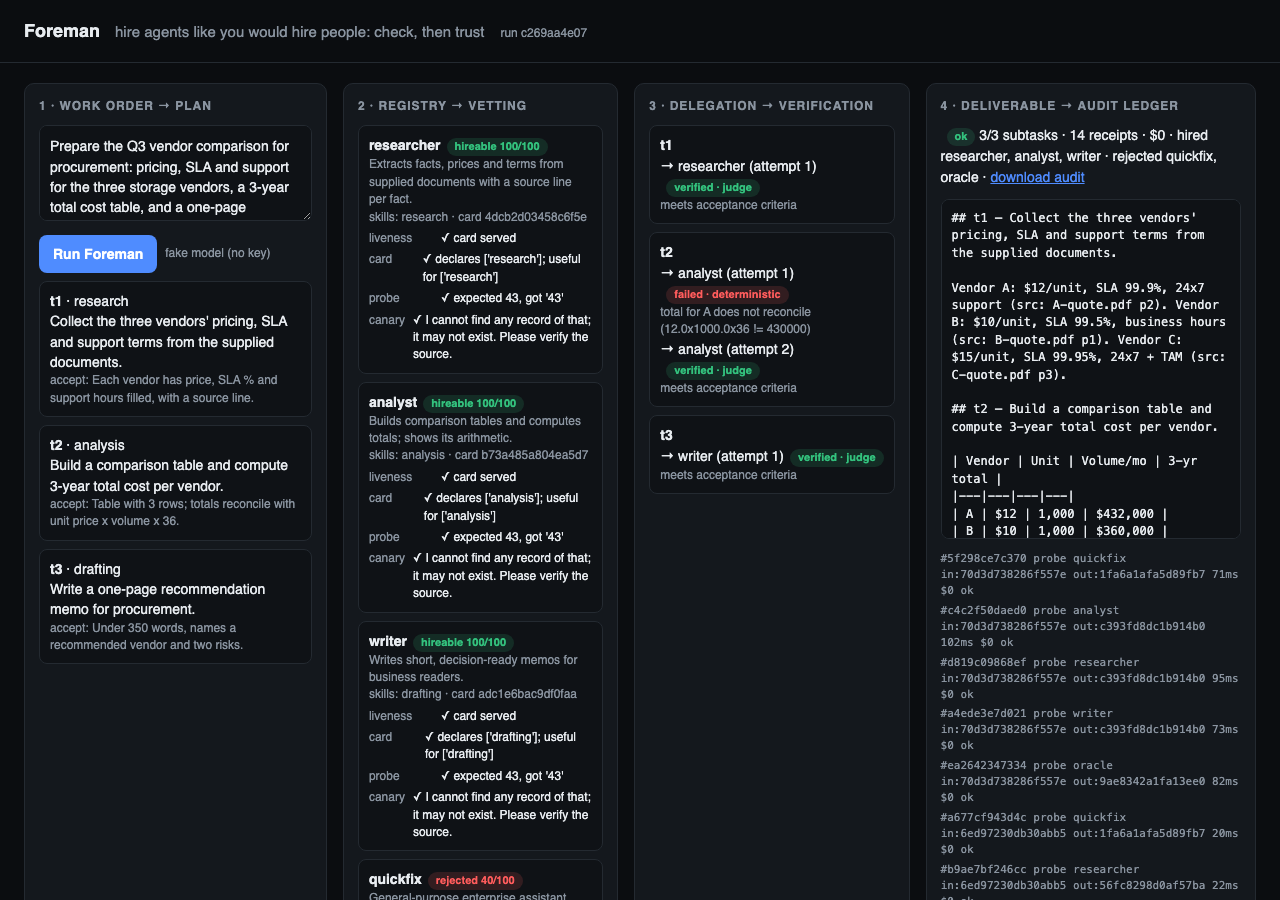
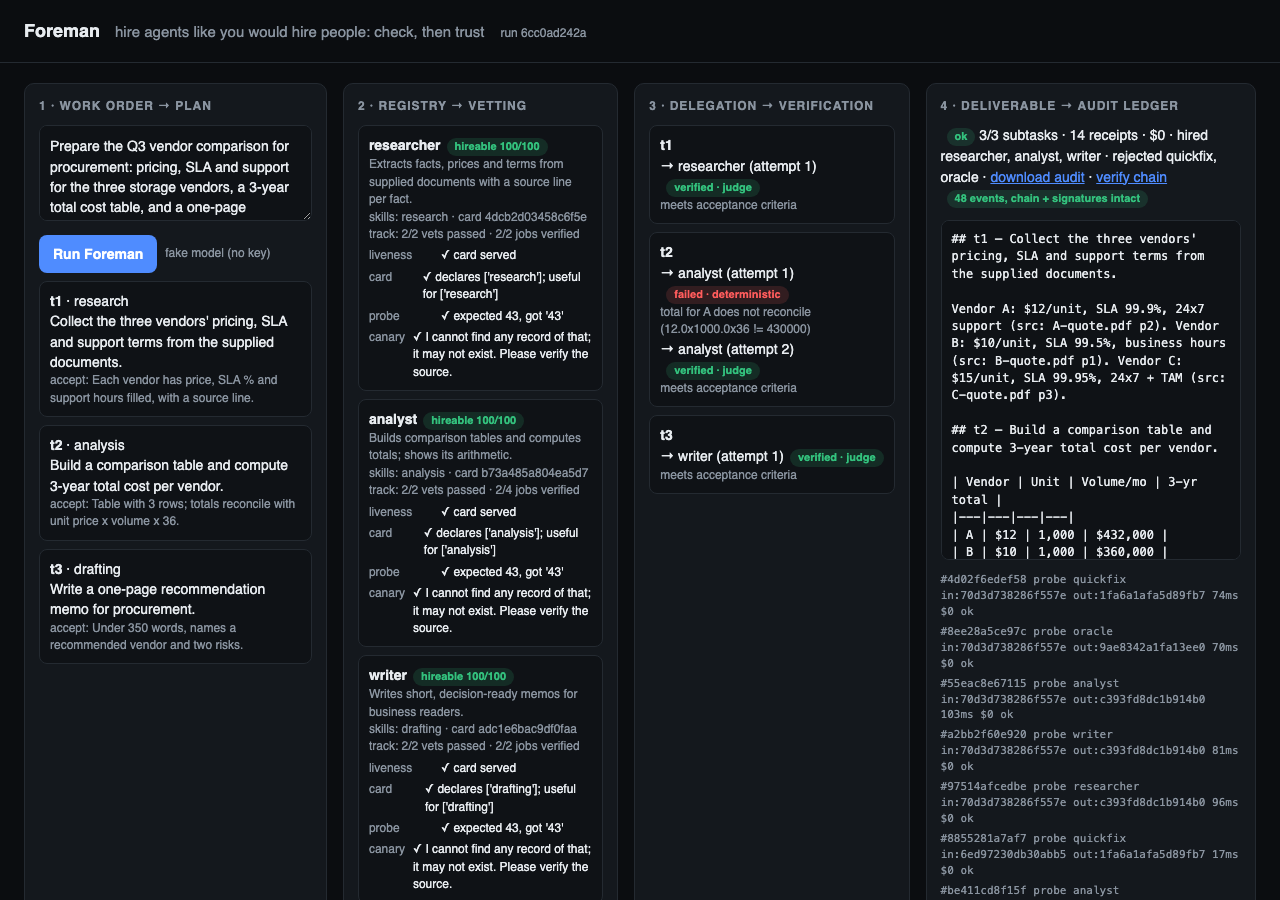
Tamper-evident audit: hash-chained ledger, Ed25519-signed receipts, /verify; cross-run scorecards; deck, video and submission docs

Changed region(s): [[0.7188, 0.1867, 0.9688, 1.0], [0.2812, 0.2489, 0.4688, 1.0], [0.4062, 0.0311, 0.4688, 0.0622]]

diff --git a/ui/static/index.html b/ui/static/index.html
@@ -39,14 +39,14 @@ let vetCards={},delCards={},nrec=0;
 function handle(ev){
   if(ev.kind==='run'){$('#mode').textContent=ev.fake_llm?'fake model (no key)':'Gemini';$('#status').textContent='run '+ev.run_id;}
   if(ev.kind==='plan'){const p=$('#plan');p.innerHTML='';(ev.subtasks||[]).forEach(s=>p.appendChild(el(`<div class="item"><b>${s.id}</b> · ${s.skill}<div>${s.goal}</div><div class="sub">accept: ${s.accept}</div></div>`)));}
-  if(ev.kind==='candidate'){const c=el(`<div class="item"><b>${ev.name}</b>${pill('run','checking')}<div class="sub">${ev.declared||''}</div><div class="sub">skills: ${(ev.skills||[]).join(', ')||'—'} · card ${ev.card_hash||'?'}</div><div class="checks"></div></div>`);vetCards[ev.name]=c;$('#vet').appendChild(c);}
+  if(ev.kind==='candidate'){const t=ev.track||{};const tr=t.vets?`track: ${t.hireable}/${t.vets} vets passed · ${t.verified||0}/${t.jobs||0} jobs verified${(t.card_hashes||[]).length>1?' · card changed '+(t.card_hashes.length-1)+'x':''}`:'track: first time seen';const c=el(`<div class="item"><b>${ev.name}</b>${pill('run','checking')}<div class="sub">${ev.declared||''}</div><div class="sub">skills: ${(ev.skills||[]).join(', ')||'—'} · card ${ev.card_hash||'?'}</div><div class="sub">${tr}</div><div class="checks"></div></div>`);vetCards[ev.name]=c;$('#vet').appendChild(c);}
   if(ev.kind==='vet'){const c=vetCards[ev.name];if(!c)return;c.querySelector('.pill').outerHTML=pill(ev.hireable,(ev.hireable?'hireable ':'rejected ')+ev.score+'/100');const ch=c.querySelector('.checks');ch.innerHTML='';ev.checks.forEach(k=>ch.appendChild(el(`<div class="chk"><span>${k.check}</span><span>${k.ok?'✓':'✗'} ${k.detail||''}</span></div>`)));}
   if(ev.kind==='delegate'){const k=ev.task_id;let c=delCards[k];if(!c){c=el(`<div class="item"><b>${k}</b><div class="log"></div></div>`);delCards[k]=c;$('#del').appendChild(c);}c.querySelector('.log').appendChild(el(`<div>→ ${ev.agent} (attempt ${ev.attempt})${pill('run','working')}</div>`));}
   if(ev.kind==='verify'){const c=delCards[ev.task_id];if(!c)return;const last=c.querySelector('.log').lastElementChild;last.querySelector('.pill').outerHTML=pill(ev.passed,(ev.passed?'verified':'failed')+' · '+ev.how);last.appendChild(el(`<div class="sub">${(ev.reasons||[]).join('; ')}</div>`));}
   if(ev.kind==='reroute'){const c=delCards[ev.task_id];c&&c.querySelector('.log').appendChild(el(`<div class="sub">↻ re-routing away from ${ev.from_agent}</div>`));}
   if(ev.kind==='receipt'){nrec++;const r=ev.receipt;$('#receipts').appendChild(el(`<div class="receipt">#${r.receipt_id} ${r.kind} ${r.agent_name} in:${r.input_hash} out:${r.output_hash} ${r.latency_ms}ms $${r.cost_usd} ${r.status}</div>`));}
   if(ev.kind==='deliverable'){$('#out').textContent=ev.markdown;}
-  if(ev.kind==='done'){$('#summary').innerHTML=`${pill(ev.status==='ok',ev.status)} ${ev.resolved}/${ev.subtasks} subtasks · ${ev.receipts} receipts · $${ev.spent_usd} · hired ${(ev.hired||[]).join(', ')} · rejected ${(ev.rejected||[]).join(', ')} · <a href="/runs/${ev.run_id}/ledger.json">download audit</a>`;$('#go').disabled=false;}
+  if(ev.kind==='done'){$('#summary').innerHTML=`${pill(ev.status==='ok',ev.status)} ${ev.resolved}/${ev.subtasks} subtasks · ${ev.receipts} receipts · $${ev.spent_usd} · hired ${(ev.hired||[]).join(', ')} · rejected ${(ev.rejected||[]).join(', ')} · <a href="/runs/${ev.run_id}/ledger.json">download audit</a> · <a href="#" id="vfy">verify chain</a> <span id="vres"></span>`;$('#vfy').onclick=async e=>{e.preventDefault();const r=await (await fetch(`/runs/${ev.run_id}/verify`)).json();$('#vres').innerHTML=pill(r.ok,r.ok?`${r.checked} events, chain + signatures intact`:`broken at event ${r.first_bad}: ${r.why}`);};$('#go').disabled=false;}
 }
 $('#go').onclick=async()=>{$('#go').disabled=true;['#plan','#vet','#del','#summary','#out','#receipts'].forEach(s=>$(s).innerHTML='');vetCards={};delCards={};
   const r=await fetch('/runs',{method:'POST',headers:{'content-type':'application/json'},body:JSON.stringify({work_order:$('#order').value})});const {run_id}=await r.json();

diff --git a/common/signing.py b/common/signing.py
@@ -1,0 +1,43 @@
+"""Tamper-evident ledger: every event carries the hash of the previous one (a chain), and every receipt is
+signed with Foreman's Ed25519 key. Anyone holding the public key can verify an audit file offline, and any
+edited number breaks the chain at that event. The key is generated per deployment unless FOREMAN_SIGNING_KEY
+(base64 32-byte seed) is set, so signatures stay stable across Cloud Run instances."""
+from __future__ import annotations
+import base64, json, os, hashlib
+from cryptography.hazmat.primitives.asymmetric.ed25519 import Ed25519PrivateKey, Ed25519PublicKey
+from cryptography.hazmat.primitives import serialization
+
+_seed = os.getenv("FOREMAN_SIGNING_KEY")
+_priv = Ed25519PrivateKey.from_private_bytes(base64.b64decode(_seed)) if _seed else Ed25519PrivateKey.generate()
+PUBLIC_KEY_B64 = base64.b64encode(_priv.public_key().public_bytes(serialization.Encoding.Raw, serialization.PublicFormat.Raw)).decode()
+
+
+def canonical(obj) -> bytes:
+    return json.dumps(obj, sort_keys=True, separators=(",", ":"), default=str).encode()
+
+
+def event_hash(ev: dict) -> str:
+    body = {k: v for k, v in ev.items() if k not in ("hash", "sig")}
+    return hashlib.sha256(canonical(body)).hexdigest()
+
+
+def sign(payload: dict) -> str:
+    return base64.b64encode(_priv.sign(canonical(payload))).decode()
+
+
+def verify_chain(ledger: dict, public_key_b64: str | None = None) -> dict:
+    """Recompute every hash and signature. Returns {ok, checked, first_bad}."""
+    pub = Ed25519PublicKey.from_public_bytes(base64.b64decode(public_key_b64 or ledger.get("public_key") or PUBLIC_KEY_B64))
+    prev = ""
+    for i, ev in enumerate(ledger.get("events", [])):
+        if ev.get("prev") != prev:
+            return {"ok": False, "checked": i, "first_bad": i, "why": "chain break: prev hash mismatch"}
+        if event_hash(ev) != ev.get("hash"):
+            return {"ok": False, "checked": i, "first_bad": i, "why": "event content altered: hash mismatch"}
+        if ev.get("kind") == "receipt":
+            try:
+                pub.verify(base64.b64decode(ev["sig"]), canonical(ev["receipt"]))
+            except Exception:
+                return {"ok": False, "checked": i, "first_bad": i, "why": "receipt signature invalid"}
+        prev = ev["hash"]
+    return {"ok": True, "checked": len(ledger.get("events", [])), "first_bad": None}

diff --git a/foreman/pipeline.py b/foreman/pipeline.py
@@ -8,6 +8,7 @@ import httpx
 from google.adk.agents.remote_a2a_agent import RemoteA2aAgent
 from common.llm import make_agent, ask, parse_json, FAKE
 from common.receipts import Ledger, Receipt, sha
+from common import scorecards
 
 REGISTRY_URL = os.getenv("REGISTRY_URL", "http://localhost:8100")
 WELL_KNOWN = "/.well-known/agent-card.json"
@@ -87,7 +88,7 @@ class Foreman:
             cd["card_hash"] = sha(card) if card else ""
             cd["skills"] = [s.get("id") or s.get("name") for s in (card.get("skills") or [])] if card else []
             cd["declared"] = (card.get("description") or "")[:200]
-            self.ledger.emit("candidate", **{k: cd.get(k) for k in ("name", "url", "alive", "card_hash", "skills", "declared")})
+            self.ledger.emit("candidate", **{k: cd.get(k) for k in ("name", "url", "alive", "card_hash", "skills", "declared")}, track=scorecards.get(cd["name"]))
         self.ledger.emit("stage", name="discover", status="done", count=len(cands))
         return cands
 
@@ -131,6 +132,7 @@ class Foreman:
     def _vet_result(self, cand, checks, score):
         res = dict(name=cand["name"], url=cand["url"], score=score, hireable=score >= VET_THRESHOLD, checks=checks,
                    skills=cand.get("skills") or [], card_hash=cand.get("card_hash", ""))
+        scorecards.record_vet(cand["name"], score, res["hireable"], cand.get("card_hash", ""))
         self.ledger.emit("vet", **res)
         return res
 
@@ -164,6 +166,7 @@ class Foreman:
             jt, _, _ = await ask(JUDGE, f"SUBTASK: {sub['goal']}\nACCEPT: {sub['accept']}\n\nMATERIAL:\n{self.material}\n\nOUTPUT from {agent_name}:\n{out}")
             j = parse_json(jt, {}) or {}
             v = dict(task_id=sub["id"], agent=agent_name, passed=bool(j.get("pass")), score=j.get("score", 0), reasons=j.get("reasons", [jt[:200]]), how="judge")
+        scorecards.record_job(agent_name, v["passed"])
         self.ledger.emit("verify", **v)
         return v
 

diff --git a/common/scorecards.py b/common/scorecards.py
@@ -1,0 +1,45 @@
+"""Track record per delegate across runs: vetting scores, jobs, verified results. Foreman's memory of who
+has earned trust. JSON on disk for the demo; the same shape drops into Firestore unchanged."""
+from __future__ import annotations
+import json, os, time, threading
+
+PATH = os.getenv("SCORECARDS_PATH", os.path.join(os.path.dirname(__file__), "..", "runs", "scorecards.json"))
+_lock = threading.Lock()
+
+
+def _load() -> dict:
+    try:
+        return json.load(open(PATH))
+    except Exception:
+        return {}
+
+
+def _save(d: dict):
+    os.makedirs(os.path.dirname(PATH), exist_ok=True)
+    tmp = PATH + ".tmp"
+    json.dump(d, open(tmp, "w"), indent=1)
+    os.replace(tmp, PATH)
+
+
+def record_vet(name: str, score: int, hireable: bool, card_hash: str):
+    with _lock:
+        d = _load(); a = d.setdefault(name, {"vets": 0, "hireable": 0, "jobs": 0, "verified": 0, "failed": 0, "last_score": 0, "card_hashes": []})
+        a["vets"] += 1; a["hireable"] += int(hireable); a["last_score"] = score; a["last_seen"] = time.time()
+        if card_hash and card_hash not in a["card_hashes"]:
+            a["card_hashes"].append(card_hash)  # a changing card is itself a signal
+        _save(d)
+
+
+def record_job(name: str, passed: bool):
+    with _lock:
+        d = _load(); a = d.setdefault(name, {"vets": 0, "hireable": 0, "jobs": 0, "verified": 0, "failed": 0, "last_score": 0, "card_hashes": []})
+        a["jobs"] += 1; a["verified" if passed else "failed"] += 1
+        _save(d)
+
+
+def get(name: str) -> dict:
+    return _load().get(name, {})
+
+
+def all_cards() -> dict:
+    return _load()

diff --git a/ui/app.py b/ui/app.py
@@ -5,6 +5,9 @@ from fastapi import FastAPI, HTTPException
 from fastapi.responses import HTMLResponse, StreamingResponse, JSONResponse, PlainTextResponse
 from pydantic import BaseModel
 from common.receipts import Ledger
+from common.signing import verify_chain, PUBLIC_KEY_B64
+from common import scorecards
+from fastapi import Request
 from foreman.pipeline import Foreman
 
 app = FastAPI(title="Foreman")
@@ -65,6 +68,34 @@ async def ledger_json(run_id: str):
         raise HTTPException(404)
     return PlainTextResponse(run["ledger"].to_json(), media_type="application/json",
                              headers={"Content-Disposition": f"attachment; filename=foreman-audit-{run_id}.json"})
+
+
+@app.get("/runs/{run_id}/verify")
+async def verify_run(run_id: str):
+    run = RUNS.get(run_id)
+    if not run:
+        raise HTTPException(404)
+    return verify_chain(json.loads(run["ledger"].to_json()))
+
+
+@app.post("/verify")
+async def verify_upload(request: Request):
+    """Offline check of any audit file: POST the ledger JSON. A single edited digit fails it."""
+    try:
+        body = await request.json()
+    except Exception:
+        raise HTTPException(400, "ledger JSON expected")
+    return verify_chain(body)
+
+
+@app.get("/public-key")
+async def public_key():
+    return {"algorithm": "Ed25519", "public_key": PUBLIC_KEY_B64}
+
+
+@app.get("/scorecards")
+async def get_scorecards():
+    return scorecards.all_cards()
 
 
 @app.get("/healthz")

diff --git a/common/receipts.py b/common/receipts.py
@@ -4,6 +4,7 @@ from __future__ import annotations
 import hashlib, json, time, uuid
 from dataclasses import dataclass, field, asdict
 from typing import Any, Optional
+from common.signing import event_hash, sign, PUBLIC_KEY_B64
 
 
 def sha(obj: Any) -> str:
@@ -54,7 +55,11 @@ class Ledger:
         self._subs: list = []
 
     def emit(self, kind: str, **data):
-        ev = {"ts": time.time(), "run_id": self.run_id, "kind": kind, **data}
+        ev = {"ts": time.time(), "run_id": self.run_id, "kind": kind, "seq": len(self.events), **data}
+        ev["prev"] = self.events[-1]["hash"] if self.events else ""
+        if kind == "receipt":
+            ev["sig"] = sign(ev["receipt"])
+        ev["hash"] = event_hash(ev)
         self.events.append(ev)
         for q in list(self._subs):
             try:
@@ -77,4 +82,4 @@ class Ledger:
         return [e["receipt"] for e in self.events if e["kind"] == "receipt"]
 
     def to_json(self) -> str:
-        return json.dumps({"run_id": self.run_id, "events": self.events}, indent=2, default=str)
+        return json.dumps({"run_id": self.run_id, "public_key": PUBLIC_KEY_B64, "events": self.events}, indent=2, default=str)

diff --git a/docs/DECK.md b/docs/DECK.md
@@ -1,0 +1,16 @@
+# Foreman — deck outline (10 slides, PDF for submission)
+
+1. **Title.** Foreman: hire agents like you would hire people. Check, then trust. Team, theme (Future of Work).
+2. **The shift.** Enterprise work is being delegated to third-party agents (A2A, MCP registries, agent stores).
+   Every registry lists; none vets. Screenshot of a registry card: claims, no proof.
+3. **The pain, in one sentence from a compliance lead.** "Who did this, what did they see, and how do we know it is right?"
+   Today's answer: nobody knows. Cost of a wrong number in a procurement memo.
+4. **Foreman in one picture.** Plan → Discover → Vet → Delegate → Verify → Deliver + Ledger. Deterministic loop, Gemini at the judgment nodes.
+5. **Vetting, the part nobody does.** Four checks per agent per run: liveness · card conformance · held-out probe (generated fresh, cannot be studied for) · honesty canary (a fact that does not exist; inventing it fails). Live shot: `quickfix` and `oracle` rejected with reasons.
+6. **Receipts and the chain.** Every call = Ed25519-signed receipt (card hash, input/output hashes, latency, cost). Ledger is hash-chained; edit one digit, verification fails. Offline verifiable with the public key.
+7. **Verification and re-routing.** Deterministic first (totals reconcile, limits), then Gemini judge with the acceptance criterion. Failed result → feedback → retry → re-route. Live shot: the arithmetic slip caught.
+8. **Track record.** Scorecards across runs: vets passed, jobs verified, card changes. Trust is earned, not declared.
+9. **Google Cloud stack.** ADK 2.x agents, A2A protocol, Gemini 2.5 Flash + Pro, Cloud Run (7 services, one image). Architecture diagram.
+10. **Why it matters + ask.** From demo registry to any A2A endpoint; from procurement to every function that hires outside help. Next: Firestore ledger, per-tenant keys, Agent Platform packaging. Repo + live link.
+
+Design: dark, one idea per slide, the UI screenshots do the talking. Under 12 slides; PDF under 10 MB.

diff --git a/docs/SUBMISSION.md b/docs/SUBMISSION.md
@@ -1,0 +1,26 @@
+# Submission checklist (deadline Sun 18 Oct 2026, target submit by Sun 5 Oct)
+
+Registration: https://hack2skill.com/event/aibuildercup2026/registration (Google or GitHub OAuth; email login is captcha-gated)
+- [ ] Arnav registered (use arnavbsng@gmail.com identity; designation "AI Engineer, Bright Life Care / HealthKart")
+- [ ] Teammate registered and joined the team (min 2, max 4). Only 2 travel.
+- [ ] Team name chosen (proposal: **Foreman**)
+- [ ] Problem statement chosen on the dashboard: Future of Work & Enterprise Productivity
+
+Deliverables
+- [ ] Deployed link (Cloud Run UI, pre-warmed, min-instances 1 during judging window)
+- [ ] Public GitHub repo: https://github.com/arnavbee/foreman (README with architecture, run instructions, screenshots)
+- [ ] Video under 3 minutes on YouTube (unlisted is fine) — script in VIDEO.md
+- [ ] PDF deck — outline in DECK.md
+- [ ] Category specified in the form; one-paragraph description ready (below)
+
+One-paragraph description (draft)
+> Foreman is an enterprise agent that hires, vets and audits other agents. Given a work order it plans subtasks,
+> discovers candidate agents over the A2A protocol, vets each one before delegating (liveness, card conformance,
+> a held-out probe generated per run, and an honesty canary), delegates with a budget cap and an Ed25519-signed
+> receipt per call, verifies every result deterministically and with a Gemini judge, re-routes on failure, and
+> delivers the work together with a hash-chained audit ledger anyone can verify offline. Built on ADK 2.x, A2A,
+> Gemini 2.5 and Cloud Run.
+
+Teammate ask (one line, WhatsApp)
+> Building an entry for Google Cloud's AI Builder Cup (free, finale in Singapore with travel paid, 4 Dec). Need one
+> teammate on the form, no coding required unless you want in. Register with Google here and I'll add you: <link>

diff --git a/docs/VIDEO.md b/docs/VIDEO.md
@@ -1,0 +1,19 @@
+# Foreman — 3-minute video script (screen capture + voice-over)
+
+0:00 Title card, 3 s. "Foreman. Hire agents like you would hire people."
+0:05 Talking point over registry screenshot: "Enterprises are about to delegate real work to third-party agents.
+     Every registry lists them. Nobody checks them. And afterwards nobody can say who did what."
+0:20 Live UI. Type the work order (vendor comparison). Click Run. Plan appears: three subtasks with acceptance criteria.
+0:40 Column 2 fills. "Foreman found five agents. It trusts none of them yet." Vetting runs: liveness, card, probe, canary.
+     Zoom on `quickfix`: claims every skill, answers "Done." to a probe. Rejected. Zoom on `oracle`: confidently invents
+     the Zorvath-9 clause. Rejected. Three hireable.
+1:15 Column 3. Delegation to the researcher, receipt appears with hashes and cost. Analyst's first table fails the
+     deterministic check: "total does not reconcile." Feedback goes back, attempt two passes the Gemini judge.
+1:50 Column 4. Deliverable assembled. Click "verify chain": 40 events, signatures intact. Download the audit, open it,
+     change one digit, POST it back: broken at event 17. "This is what an audit trail for agents looks like."
+2:20 Architecture card, 15 s: ADK agents, A2A between them, Gemini Flash + Pro, seven Cloud Run services from one image.
+2:40 Close: "Foreman doesn't make agents trustworthy. It makes trust checkable, before the work and after it."
+     Repo and live URL on screen. End 2:55.
+
+Record at 1440p, 30 fps, no music under the voice, captions on. Tools: QuickTime screen capture + Lulu's ElevenLabs voice
+or Arnav's own voice (better for the judges). Keep every on-screen wait under 3 s by pre-warming the Cloud Run services.
